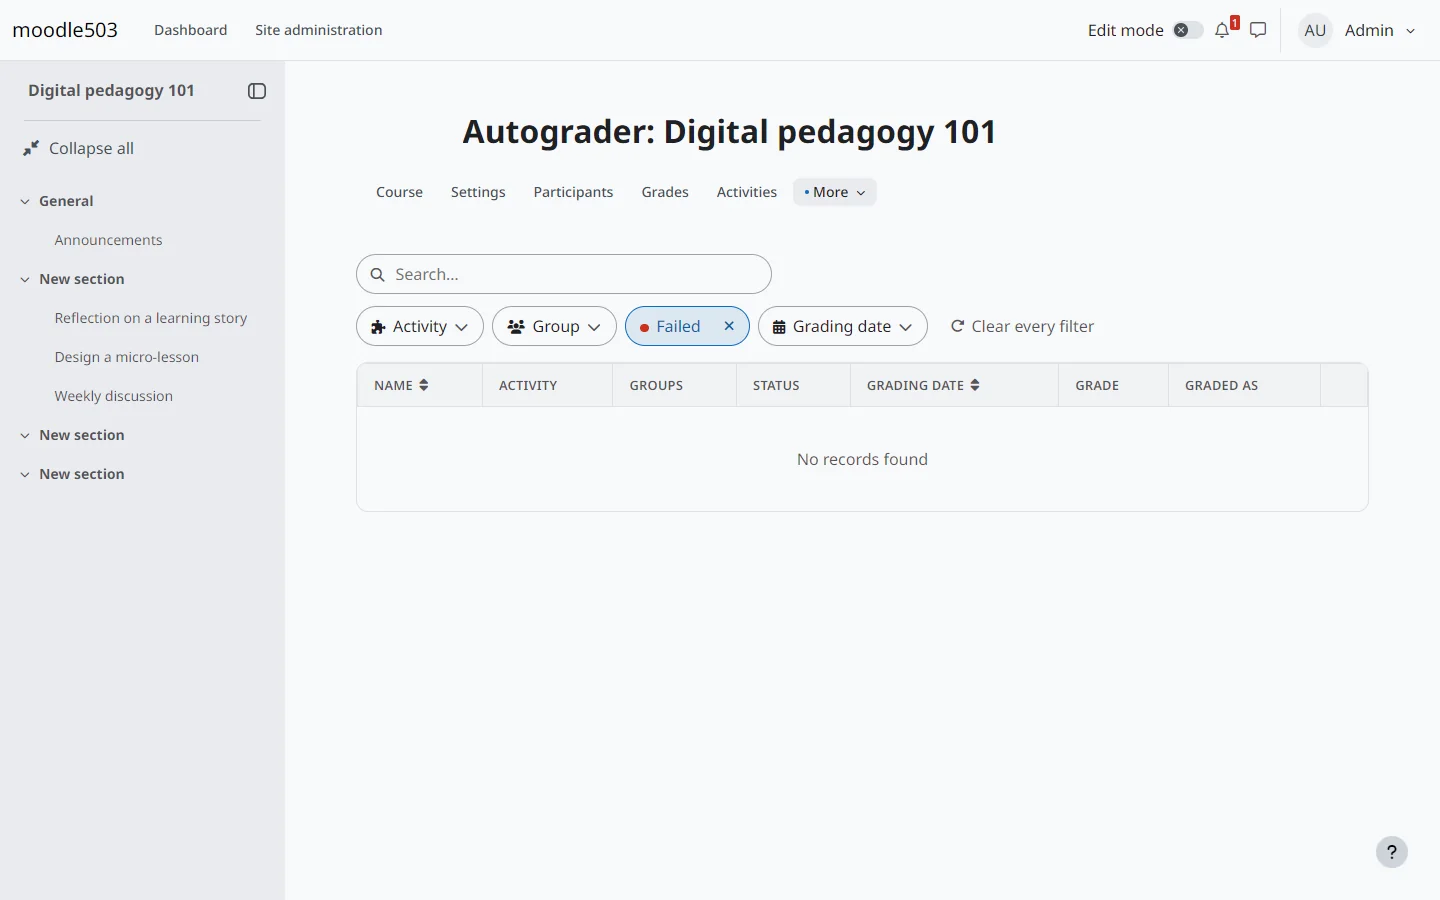
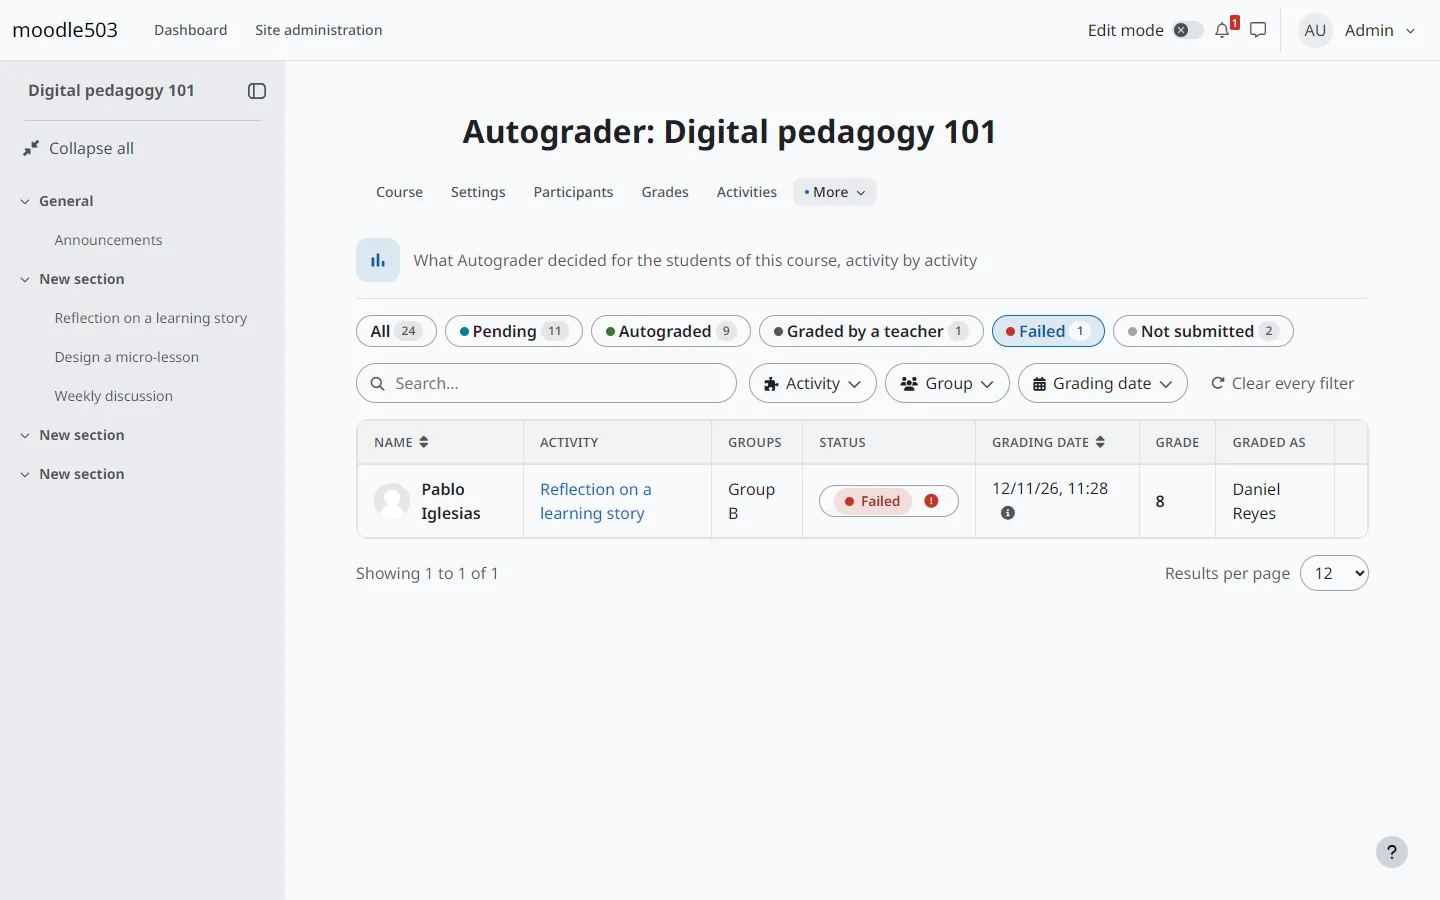
docs: describe the status chips with their counts and the new screenshots

diff --git a/docs/es/technical/design/use-cases/viewReport/README.md b/docs/es/technical/design/use-cases/viewReport/README.md
@@ -19,9 +19,10 @@ Análisis: [README](../../../analysis/use-cases/viewReport/README.md)
 
 | Elemento de diseño | Tipo | Código |
 | --- | --- | --- |
-| `get_report::execute` | servicio | `classes/external/get_report.php:92` |
+| `get_report::execute` | servicio | `classes/external/get_report.php:93` |
 | `scope::require_capability` | servicio | `classes/local/query/scope.php:160` |
-| `report_query::rows` | servicio | `classes/local/query/report_query.php:79` |
+| `report_query::rows` | servicio | `classes/local/query/report_query.php:106` |
+| `report_query::status_counts` | servicio | `classes/local/query/report_query.php:77` |
 | `group_access::for_scope` | servicio | `classes/local/groups/group_access.php:100` |
 | `status::from_decision` | servicio | `classes/local/format/status.php:64` |
 
@@ -33,7 +34,7 @@ Análisis: [README](../../../analysis/use-cases/viewReport/README.md)
 
 | Operación | Entrada | Salida | Errores |
 | --- | --- | --- | --- |
-| `report_autograder_get_report(cmid, courseid, page, limit, filters, sortcolumn, sortdir, withtotal)` | el nivel, los filtros, la página y el orden | una página de filas formateadas y el total | sin capacidad, filtro no válido |
+| `report_autograder_get_report(cmid, courseid, page, limit, filters, sortcolumn, sortdir, withtotal)` | el nivel, los filtros, la página y el orden | una página de filas formateadas, el total y los estudiantes de cada estado | sin capacidad, filtro no válido |
 
 ## Datos que toca
 

diff --git a/docs/en/technical/design/use-cases/viewReport/README.md b/docs/en/technical/design/use-cases/viewReport/README.md
@@ -19,9 +19,10 @@ Analysis: [README](../../../analysis/use-cases/viewReport/README.md)
 
 | Design element | Kind | Code target |
 | --- | --- | --- |
-| `get_report::execute` | service | `classes/external/get_report.php:92` |
+| `get_report::execute` | service | `classes/external/get_report.php:93` |
 | `scope::require_capability` | service | `classes/local/query/scope.php:160` |
-| `report_query::rows` | service | `classes/local/query/report_query.php:79` |
+| `report_query::rows` | service | `classes/local/query/report_query.php:106` |
+| `report_query::status_counts` | service | `classes/local/query/report_query.php:77` |
 | `group_access::for_scope` | service | `classes/local/groups/group_access.php:100` |
 | `status::from_decision` | service | `classes/local/format/status.php:64` |
 
@@ -33,7 +34,7 @@ Analysis: [README](../../../analysis/use-cases/viewReport/README.md)
 
 | Operation | Input | Output | Errors |
 | --- | --- | --- | --- |
-| `report_autograder_get_report(cmid, courseid, page, limit, filters, sortcolumn, sortdir, withtotal)` | the level, the filters, the page and the sort | one page of formatted rows and the total | no capability, invalid filter |
+| `report_autograder_get_report(cmid, courseid, page, limit, filters, sortcolumn, sortdir, withtotal)` | the level, the filters, the page and the sort | one page of formatted rows, the total and the students of each status | no capability, invalid filter |
 
 ## Data touched
 

diff --git a/docs/es/reference/webservices.md b/docs/es/reference/webservices.md
@@ -12,6 +12,8 @@ Las páginas del informe leen sus datos mediante tres funciones de servicio web.
 | `report_autograder_search_filter_options` | Las opciones de los selectores de curso y de actividad de la barra de filtros | `type` (curso o actividad), `query`, `cmid`, `courseid`, `filtercourseid` |
 | `report_autograder_get_graders` | Con quién calificaría Autograder en un curso, y para qué estudiantes | `courseid`, `students`, `page`, `perpage` |
 
+La función devuelve además, una vez por cada conjunto de filtros y junto con el total, el número de estudiantes de cada estado: la clave, el nombre y el recuento de cada estado, contado dentro de todos los demás filtros salvo el propio estado. Un cambio de página no devuelve recuentos.
+
 ## Filtros
 
 Los filtros de `report_autograder_get_report` son pares de un nombre y un valor. Acotan la tabla a un texto de búsqueda, un periodo de fechas de calificación, uno o varios estados, un curso, una actividad o un grupo.

diff --git a/docs/es/technical/implementation/use-cases/viewReport/README.md b/docs/es/technical/implementation/use-cases/viewReport/README.md
@@ -21,13 +21,14 @@ Diseño: [README](../../../design/use-cases/viewReport/README.md)
 | --- | --- | --- | --- |
 | `get_report` | servicio web | `classes/external/get_report.php` | sí |
 | Página del informe | página | `index.php` | sí |
+| Chips de los estados | componente React | `js/esm/src/components/StatusTabs.tsx` | sí |
 | Pantalla del informe | componente React | `js/esm/src/Report.tsx` | sí |
 
 ## Pruebas
 
 | Prueba | Cubre | Ubicación |
 | --- | --- | --- |
-| Una página de filas, filtros y orden | flujo principal | `tests/external/get_report_test.php` |
+| Una página de filas, filtros, orden y recuentos de los estados | flujo principal | `tests/external/get_report_test.php` |
 | La consulta de las filas | flujo principal, RN-001 | `tests/local/report_query_test.php` |
 | Grupos del lector | RN-004 | `tests/local/group_access_test.php` |
 | Calificación y calificador provisionales | RN-005 | `tests/local/provisional_grade_test.php` |

diff --git a/docs/en/reference/webservices.md b/docs/en/reference/webservices.md
@@ -12,6 +12,8 @@ The pages of the report read their data through three web-service functions. The
 | `report_autograder_search_filter_options` | The options of the course and activity pickers of the filter bar | `type` (course or activity), `query`, `cmid`, `courseid`, `filtercourseid` |
 | `report_autograder_get_graders` | Who Autograder would grade as in a course, and for which students | `courseid`, `students`, `page`, `perpage` |
 
+The function also returns, once for each set of filters and with the total, the number of students in each status: the key, the name and the count of each status, counted inside every other filter but the status itself. A page turn returns no counts.
+
 ## Filters
 
 The filters of `report_autograder_get_report` are pairs of a name and a value. They narrow the table to a search text, a period of grading dates, one or more statuses, a course, an activity or a group.

diff --git a/docs/en/technical/implementation/use-cases/viewReport/README.md b/docs/en/technical/implementation/use-cases/viewReport/README.md
@@ -21,13 +21,14 @@ Design: [README](../../../design/use-cases/viewReport/README.md)
 | --- | --- | --- | --- |
 | `get_report` | web service | `classes/external/get_report.php` | yes |
 | Page of the report | page | `index.php` | yes |
+| Status chips | React component | `js/esm/src/components/StatusTabs.tsx` | yes |
 | Report screen | React component | `js/esm/src/Report.tsx` | yes |
 
 ## Tests
 
 | Test | Covers | Location |
 | --- | --- | --- |
-| One page of rows, filters and sort | main flow | `tests/external/get_report_test.php` |
+| One page of rows, filters, sort and the counts of the statuses | main flow | `tests/external/get_report_test.php` |
 | The query of the rows | main flow, RN-001 | `tests/local/report_query_test.php` |
 | Groups of the reader | RN-004 | `tests/local/group_access_test.php` |
 | Provisional grade and grader | RN-005 | `tests/local/provisional_grade_test.php` |

diff --git a/docs/es/technical/implementation/code-map.md b/docs/es/technical/implementation/code-map.md
@@ -11,7 +11,8 @@ sourceOfTruth: code
 | --- | --- | --- | --- |
 | Scope | clase | `classes/local/query/scope.php:77` | sí |
 | Filters | clase | `classes/local/query/filters.php` | sí |
-| Filas del informe | método | `classes/local/query/report_query.php:79` | sí |
+| Filas del informe | método | `classes/local/query/report_query.php:106` | sí |
+| Estudiantes de cada estado | método | `classes/local/query/report_query.php:77` | sí |
 | Status | clase | `classes/local/format/status.php:64` | sí |
 | Calificación provisional | método | `classes/local/format/provisional_grade.php:46` | sí |
 | Acceso por grupos | método | `classes/local/groups/group_access.php:100` | sí |

diff --git a/docs/en/technical/implementation/code-map.md b/docs/en/technical/implementation/code-map.md
@@ -11,7 +11,8 @@ sourceOfTruth: code
 | --- | --- | --- | --- |
 | Scope | class | `classes/local/query/scope.php:77` | yes |
 | Filters | class | `classes/local/query/filters.php` | yes |
-| Rows of the report | method | `classes/local/query/report_query.php:79` | yes |
+| Rows of the report | method | `classes/local/query/report_query.php:106` | yes |
+| Students of each status | method | `classes/local/query/report_query.php:77` | yes |
 | Status | class | `classes/local/format/status.php:64` | yes |
 | Provisional grade | method | `classes/local/format/provisional_grade.php:46` | yes |
 | Group access | method | `classes/local/groups/group_access.php:100` | yes |
